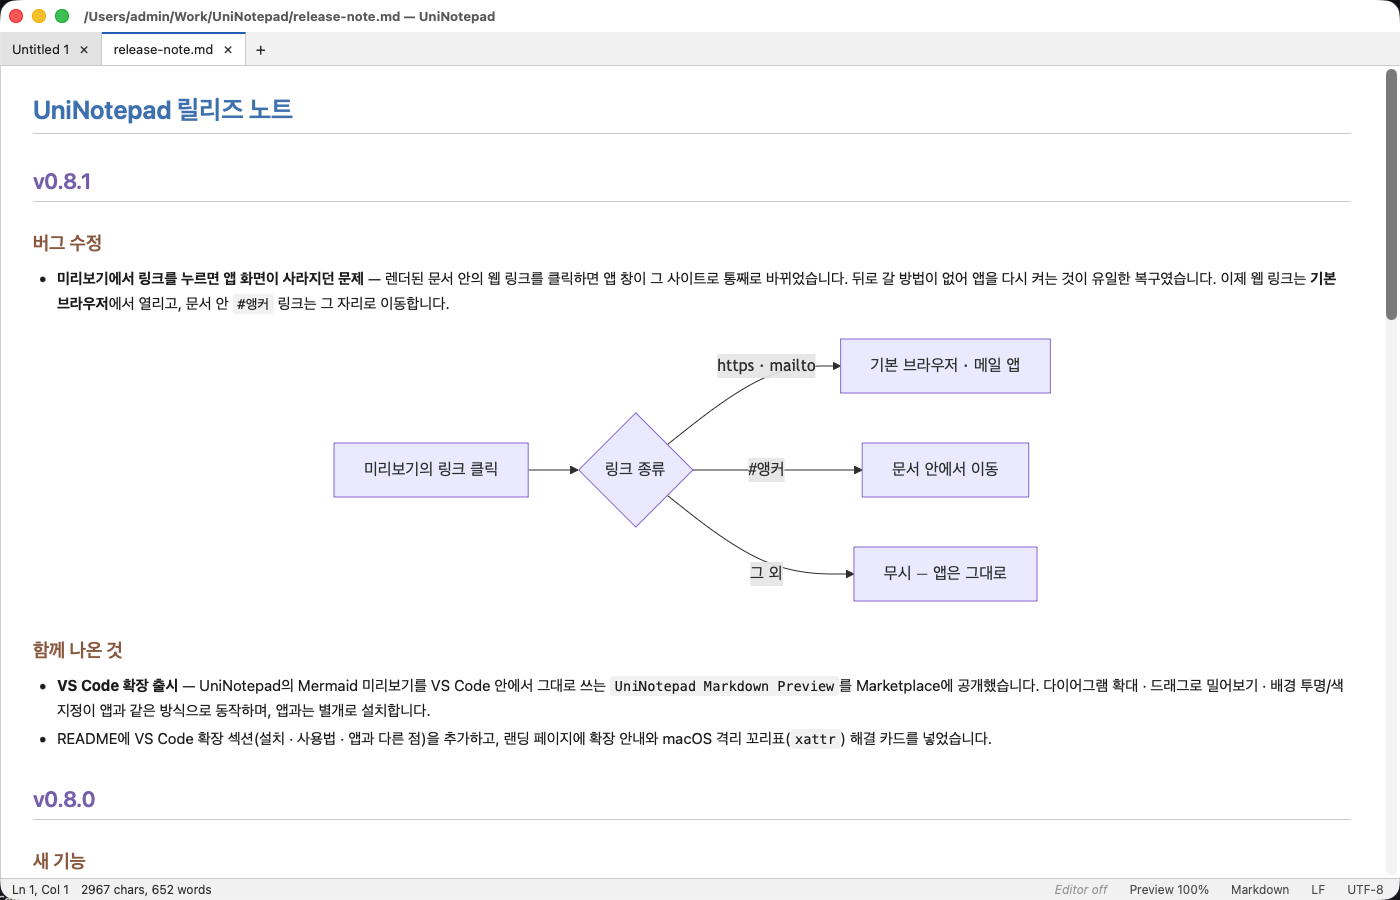
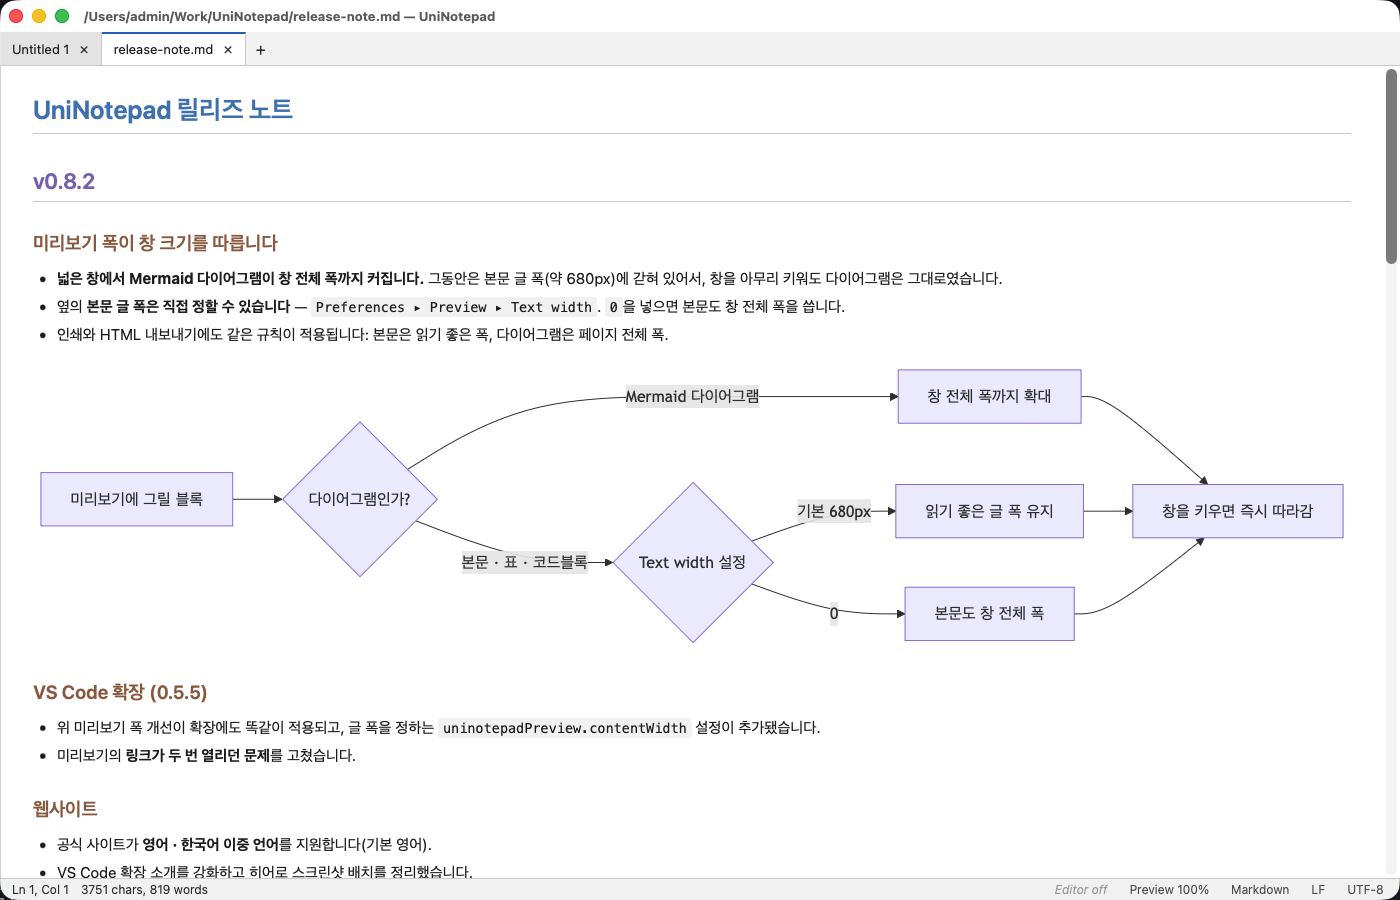
[Docs] release-note.md와 Markdown 스크린샷을 v0.8.2 화면으로 갱신
The new v0.8.2 section leads with a flowchart, which is what the light shot is
for: with the editor pane closed the diagram now spans the full window, so the
screenshot demonstrates the release's headline change rather than just
illustrating it.

diff --git a/release-note.md b/release-note.md
@@ -1,5 +1,39 @@
 # UniNotepad 릴리즈 노트
 
+## v0.8.2
+
+### 미리보기 폭이 창 크기를 따릅니다
+
+- **넓은 창에서 Mermaid 다이어그램이 창 전체 폭까지 커집니다.** 그동안은 본문 글
+  폭(약 680px)에 갇혀 있어서, 창을 아무리 키워도 다이어그램은 그대로였습니다.
+- 옆의 **본문 글 폭은 직접 정할 수 있습니다** — `Preferences ▸ Preview ▸ Text
+  width`. `0`을 넣으면 본문도 창 전체 폭을 씁니다.
+- 인쇄와 HTML 내보내기에도 같은 규칙이 적용됩니다: 본문은 읽기 좋은 폭, 다이어그램은
+  페이지 전체 폭.
+
+```mermaid
+graph LR
+  A[미리보기에 그릴 블록] --> B{다이어그램인가?}
+  B -->|Mermaid 다이어그램| C[창 전체 폭까지 확대]
+  B -->|본문 · 표 · 코드블록| D{Text width 설정}
+  D -->|기본 680px| E[읽기 좋은 글 폭 유지]
+  D -->|0| F[본문도 창 전체 폭]
+  C --> G[창을 키우면 즉시 따라감]
+  E --> G
+  F --> G
+```
+
+### VS Code 확장 (0.5.5)
+
+- 위 미리보기 폭 개선이 확장에도 똑같이 적용되고, 글 폭을 정하는
+  `uninotepadPreview.contentWidth` 설정이 추가됐습니다.
+- 미리보기의 **링크가 두 번 열리던 문제**를 고쳤습니다.
+
+### 웹사이트
+
+- 공식 사이트가 **영어 · 한국어 이중 언어**를 지원합니다(기본 영어).
+- VS Code 확장 소개를 강화하고 히어로 스크린샷 배치를 정리했습니다.
+
 ## v0.8.1
 
 ### 버그 수정
